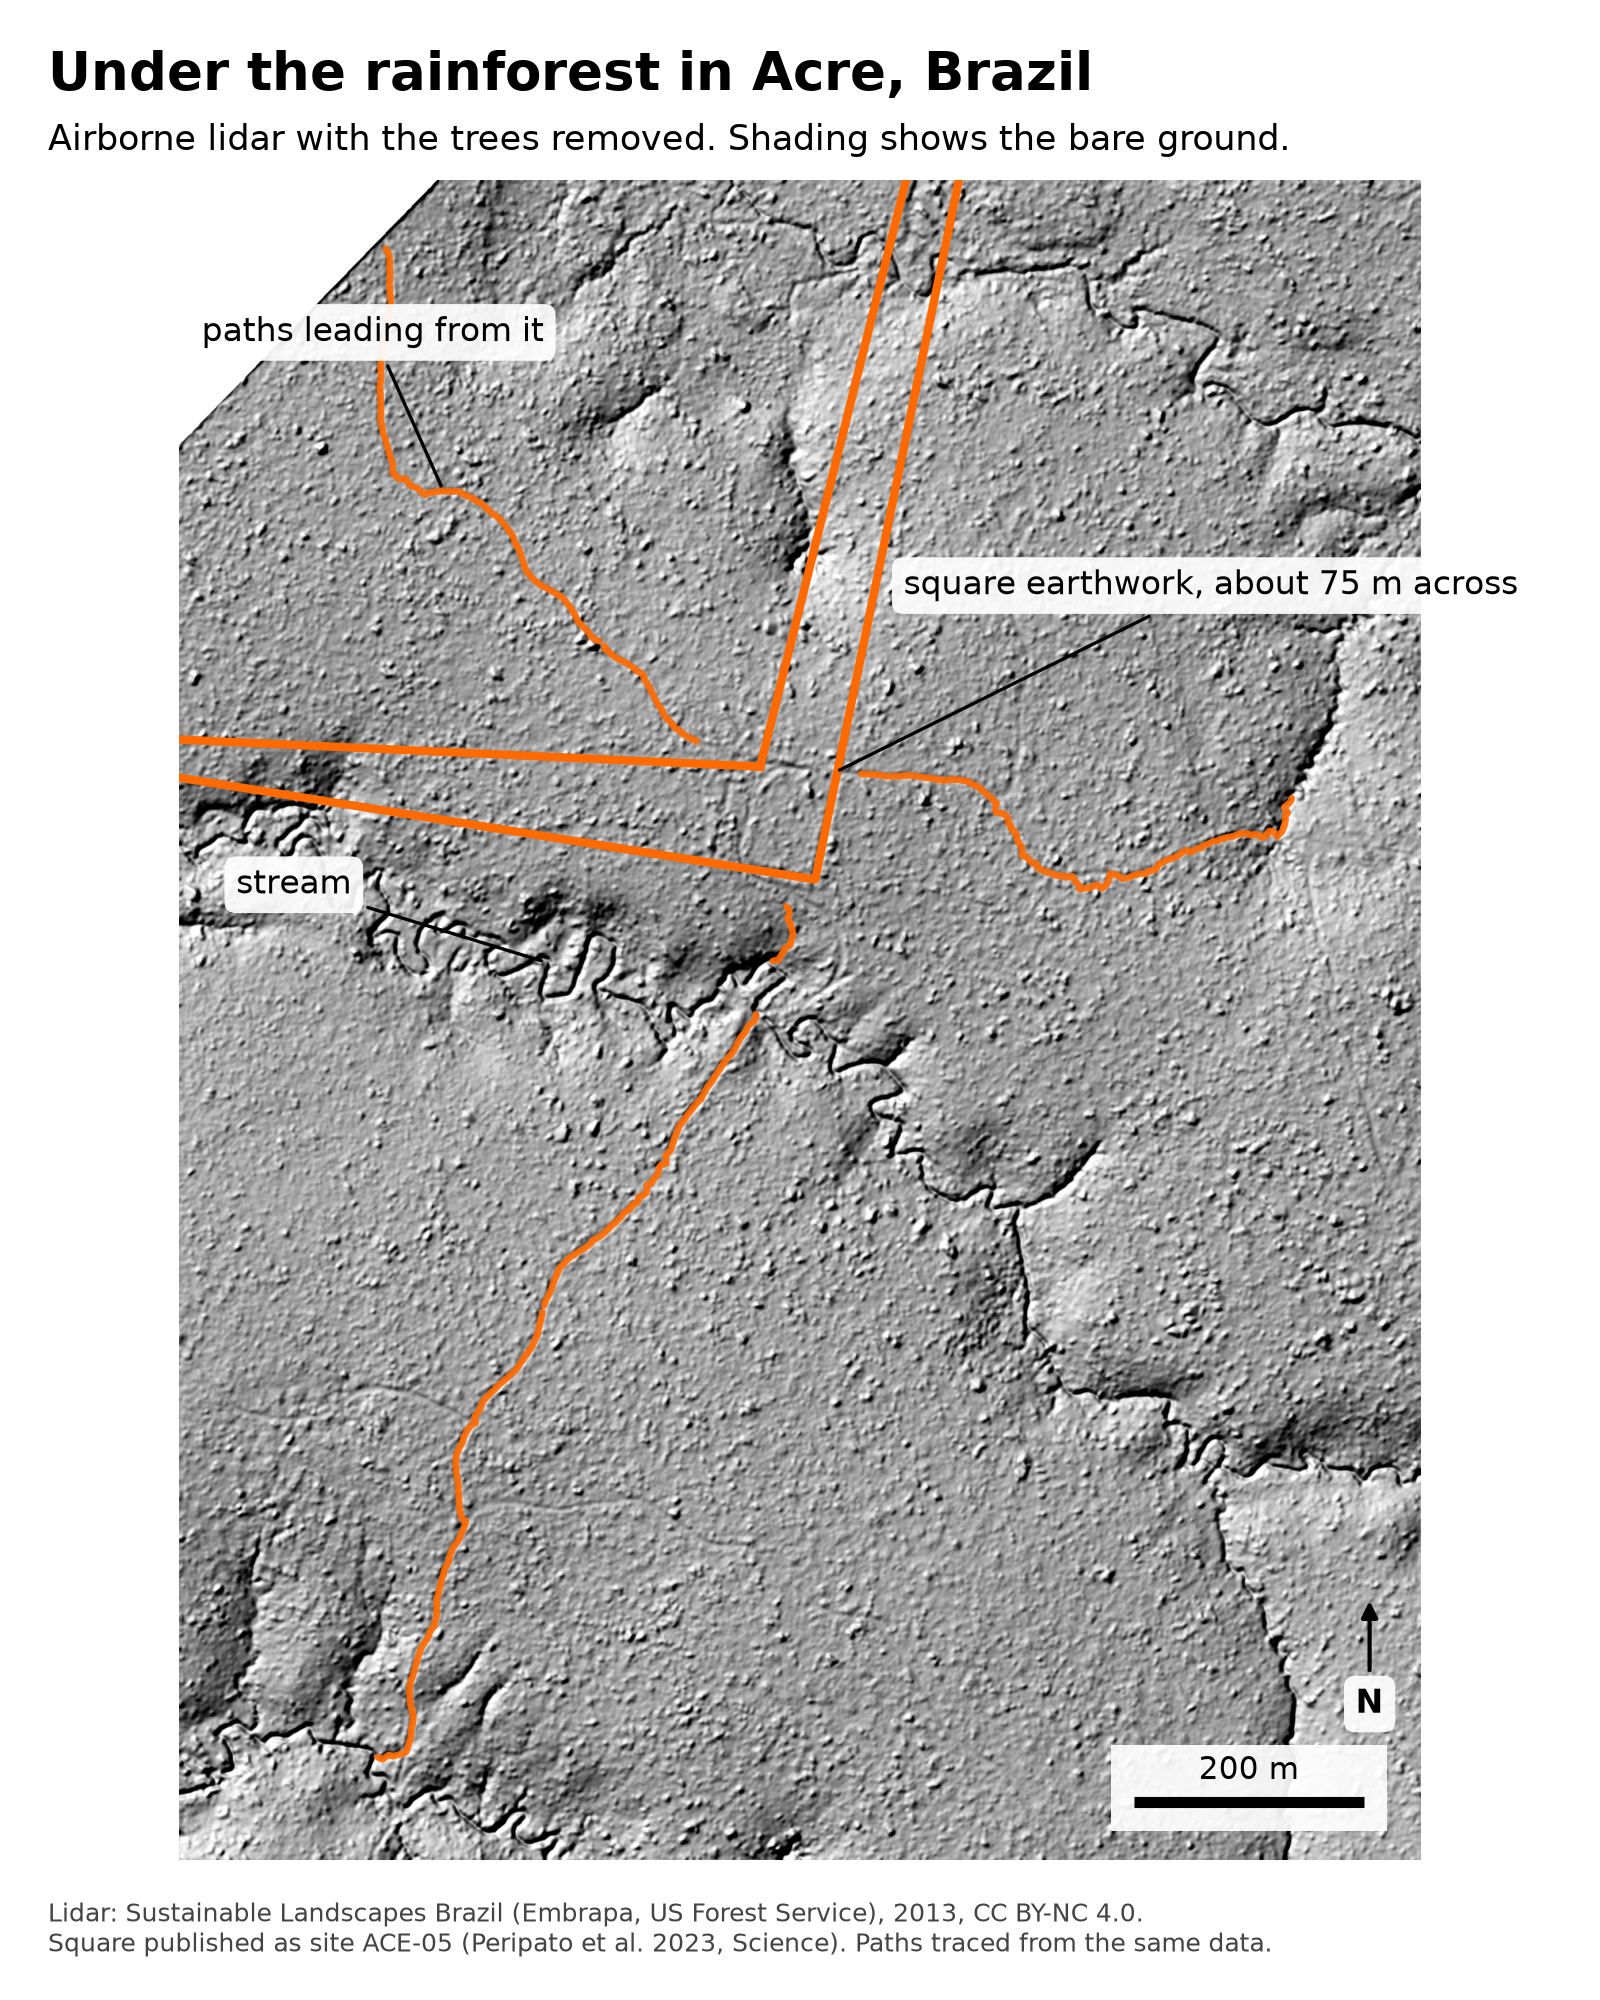
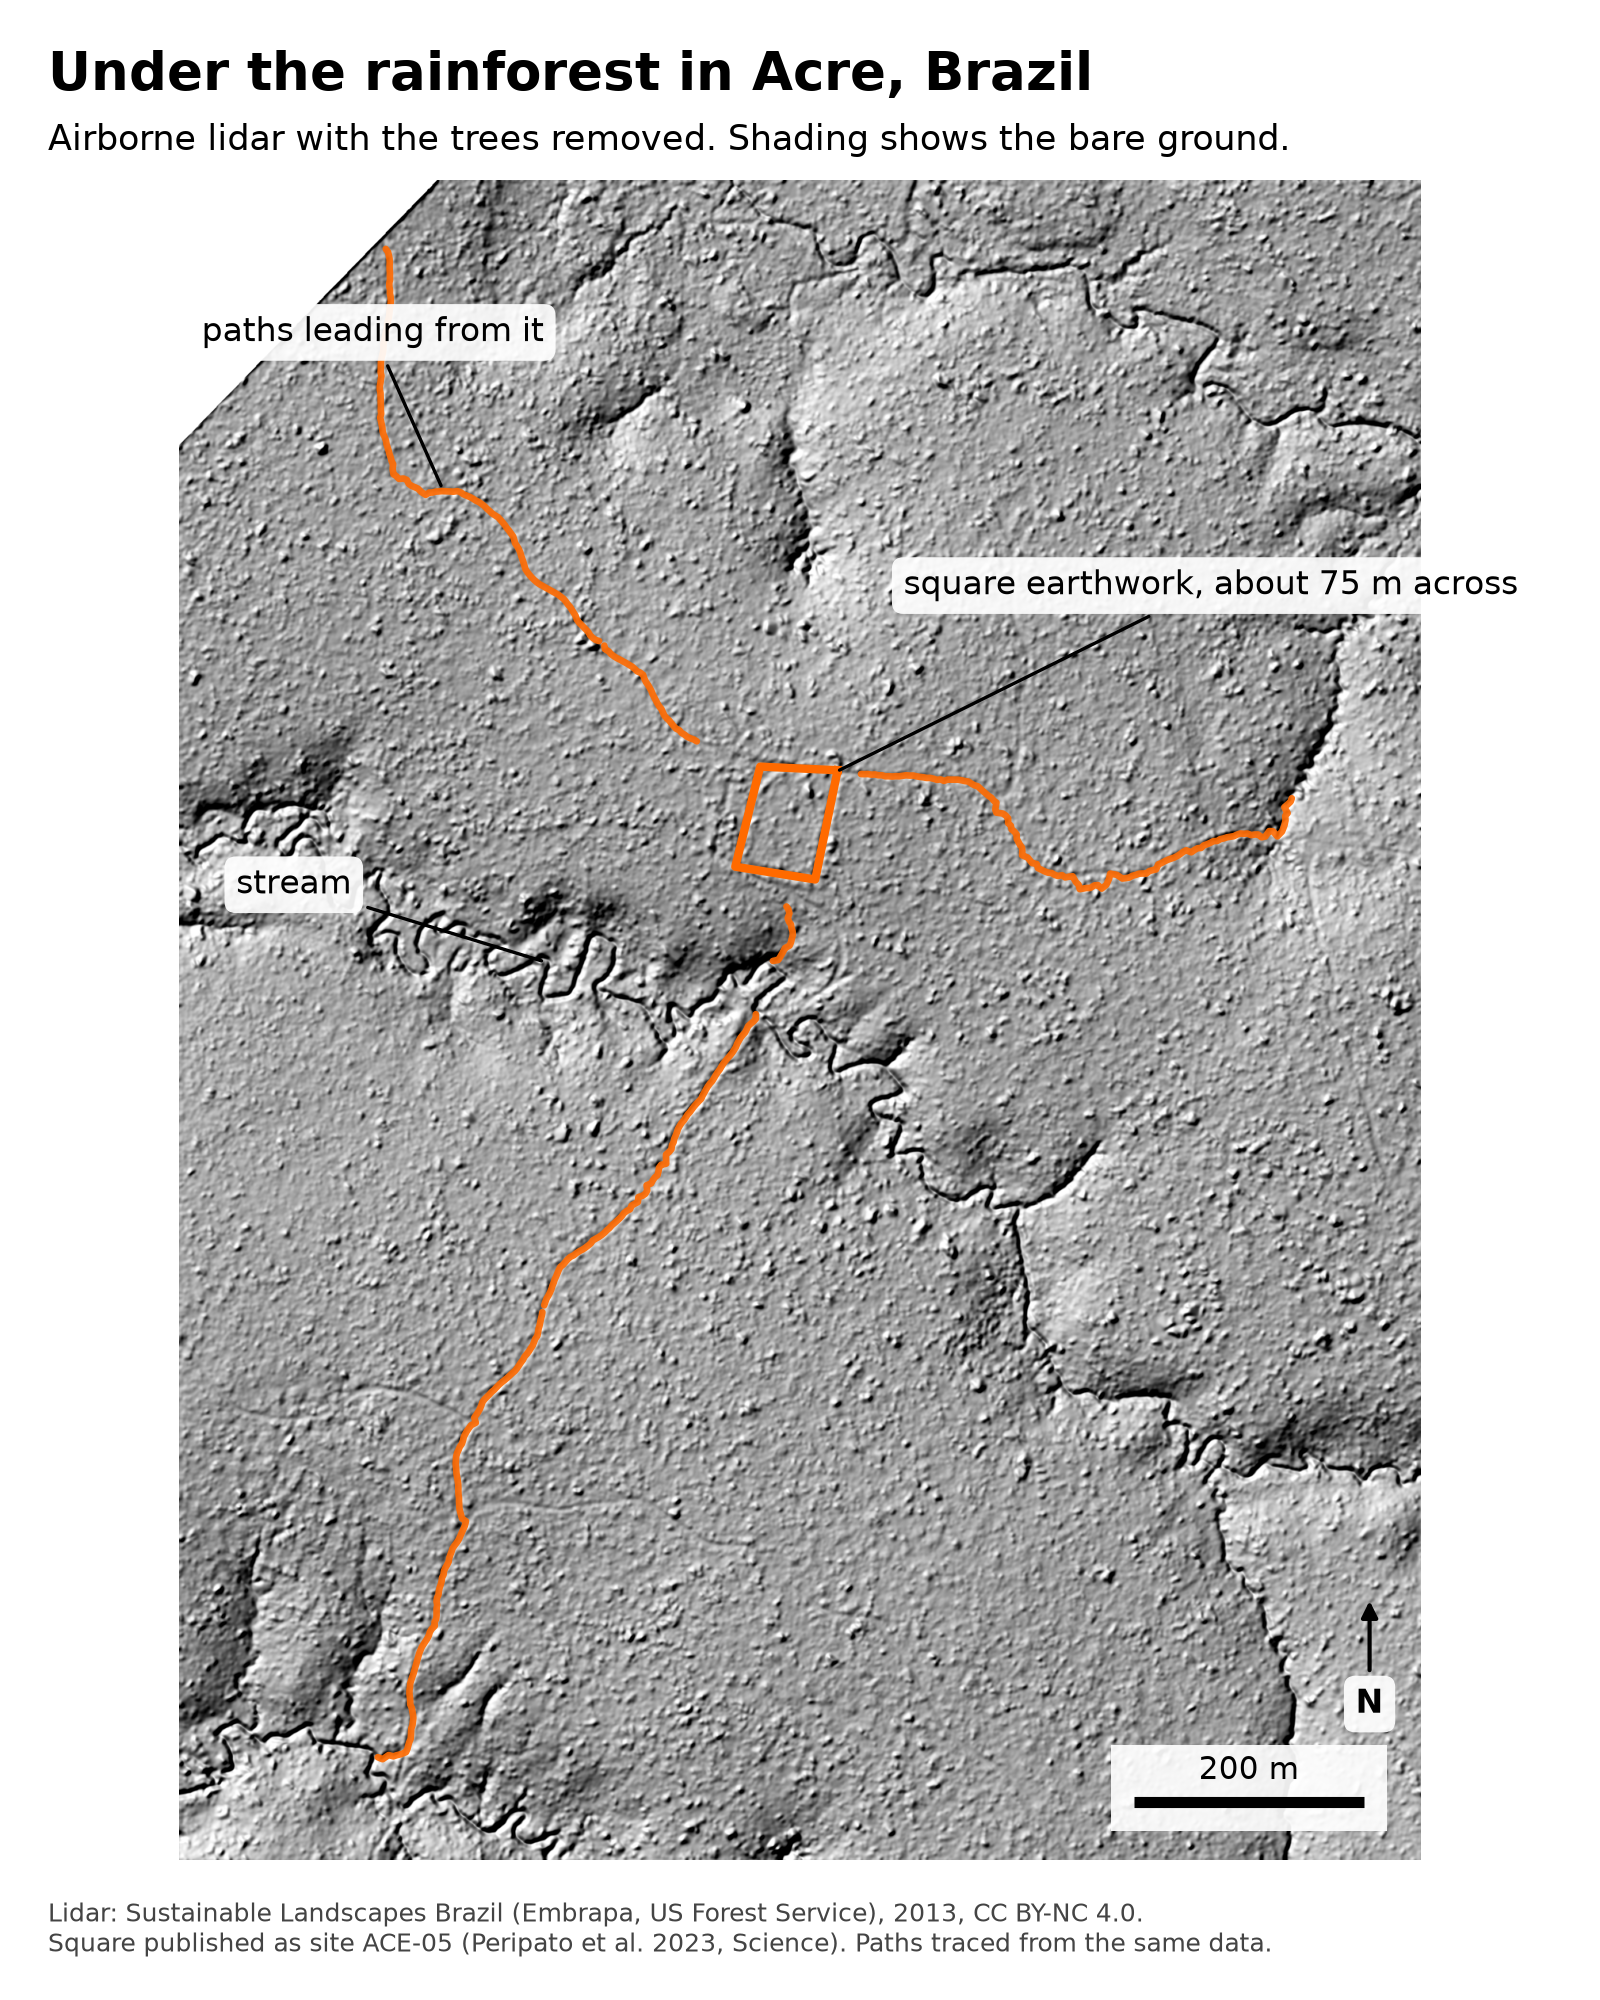
pics

Changed region(s): [[0.125, 0.31, 0.5312, 0.434], [0.5312, 0.093, 0.625, 0.217], [0.5, 0.217, 0.5625, 0.341]]

diff --git a/lidar/make_social_relief.py b/lidar/make_social_relief.py
@@ -1,0 +1,94 @@
+"""Shareable map of the measured bumps and dips, with attention marks that sit beside
+the features (a circle around the square, arrows next to the paths), never on them.
+
+Usage: python -I lidar/make_social_relief.py SURFACES.npz TRACES.json OUT.png CX CY
+"""
+import json
+import sys
+
+import matplotlib
+import numpy as np
+from scipy import ndimage as ndi
+
+matplotlib.use("Agg")
+import matplotlib.pyplot as plt
+from matplotlib.patches import Circle
+
+surf, traces_path, out = sys.argv[1:4]
+CX, CY = float(sys.argv[4]), float(sys.argv[5])
+X_RANGE, Y_RANGE = (-330, 330), (-420, 405)  # metres from the square's centre (4:5)
+LIM = 0.3  # colour scale, metres
+
+s = np.load(surf)
+dtm = s["dtm"].astype(float)
+X0, Y0 = s["origin"]
+CELL = float(s["cell"])
+filled = np.where(np.isnan(dtm), np.nanmedian(dtm), dtm)
+rel = ndi.gaussian_filter(filled - ndi.gaussian_filter(filled, 10 / CELL), 1.5 / CELL)
+
+c0, c1 = int((CX + X_RANGE[0] - X0) / CELL), int((CX + X_RANGE[1] - X0) / CELL)
+r0, r1 = int((Y0 - (CY + Y_RANGE[1])) / CELL), int((Y0 - (CY + Y_RANGE[0])) / CELL)
+img = rel[r0:r1, c0:c1]
+
+fig = plt.figure(figsize=(8, 10), dpi=200)
+ax = fig.add_axes([0.02, 0.1, 0.96, 0.8])
+im = ax.imshow(np.clip(img, -LIM, LIM), cmap="RdBu_r", vmin=-LIM, vmax=LIM,
+               extent=(*X_RANGE, *Y_RANGE), interpolation="bilinear")
+
+INK = "#111111"
+BOX = dict(boxstyle="round,pad=0.35", fc="white", ec="none", alpha=0.92)
+traces = json.load(open(traces_path))
+
+# circle around the square, well outside its ditch
+ax.add_patch(Circle((3, 2), 78, fill=False, ec=INK, lw=2.2))
+ax.annotate("square earthwork, about 75 m across", (55, 58), xytext=(70, 175), fontsize=12.5, bbox=BOX,
+            arrowprops=dict(arrowstyle="-", color=INK, lw=1.2))
+
+
+def arrow_beside(name, along_m, side=1, gap=9, length=45):
+    """An arrow whose tip stops `gap` metres to one side of the traced path."""
+    p = np.array(traces[name]["path"]) - [CX, CY]
+    d = np.r_[0, np.cumsum(np.linalg.norm(np.diff(p, axis=0), axis=1))]
+    i = int(np.argmin(np.abs(d - along_m)))
+    j = min(i + 3, len(p) - 1)
+    t = (p[j] - p[max(i - 3, 0)])
+    t /= np.linalg.norm(t)
+    n = np.array([-t[1], t[0]]) * side
+    tip = p[i] + gap * n
+    ax.annotate("", tip, xytext=tip + length * n,
+                arrowprops=dict(arrowstyle="-|>", color=INK, lw=2, mutation_scale=16))
+    return tip + (length + 14) * n
+
+
+lab = arrow_beside("nw_out", 130, side=1)
+ax.text(*lab, "path", fontsize=12.5, ha="center", va="center", bbox=BOX)
+arrow_beside("nw_back", 60, side=1)
+lab = arrow_beside("east", 160, side=-1)
+ax.text(*lab, "path", fontsize=12.5, ha="center", va="center", bbox=BOX)
+lab = arrow_beside("sw_back", 90, side=1, length=70)
+ax.text(*lab, "path, across\nthe stream", fontsize=12.5, ha="center", va="center", bbox=BOX)
+
+# scale bar and north arrow
+x_s, y_s = X_RANGE[1] - 135, Y_RANGE[0] + 28
+ax.add_patch(plt.Rectangle((x_s - 12, y_s - 14), 124, 46, fc="white", ec="none", alpha=0.92))
+ax.plot([x_s, x_s + 100], [y_s, y_s], color=INK, lw=4, solid_capstyle="butt")
+ax.text(x_s + 50, y_s + 8, "100 m", ha="center", va="bottom", fontsize=11)
+ax.annotate("N", (X_RANGE[1] - 28, Y_RANGE[0] + 140), xytext=(X_RANGE[1] - 28, Y_RANGE[0] + 92),
+            ha="center", va="top", fontsize=12, fontweight="bold", bbox=BOX,
+            arrowprops=dict(arrowstyle="-|>", color=INK, lw=1.5))
+ax.set_xlim(*X_RANGE)
+ax.set_ylim(*Y_RANGE)
+ax.axis("off")
+
+cax = fig.add_axes([0.25, 0.062, 0.5, 0.013])
+cb = fig.colorbar(im, cax=cax, orientation="horizontal", ticks=[-LIM, 0, LIM])
+cb.ax.set_xticklabels([f"{-LIM:.1f} m lower", "level", f"{LIM:.1f} m higher"], fontsize=10)
+cb.outline.set_visible(False)
+fig.text(0.5, 0.083, "Ground height compared with the ground around it (within ~10 m)", ha="center", fontsize=10.5)
+
+fig.text(0.03, 0.955, "Under the rainforest in Acre, Brazil", fontsize=19, fontweight="bold")
+fig.text(0.03, 0.925, "Airborne lidar with the trees removed: blue is lower ground, red is higher.", fontsize=12.5)
+fig.text(0.03, 0.025, "Lidar: Sustainable Landscapes Brazil (Embrapa, US Forest Service), 2013, CC BY-NC 4.0.\n"
+         "Square published as site ACE-05 (Peripato et al. 2023, Science).", fontsize=9, va="center", color="#444444")
+fig.savefig(out, dpi=200, facecolor="white")
+print("wrote", out)

diff --git a/lidar/make_social_map.py b/lidar/make_social_map.py
@@ -43,16 +43,16 @@ ax.imshow(shade, cmap=cmap, vmin=0.15, vmax=0.95, extent=(*X_RANGE, *Y_RANGE), i
 ORANGE = "#ff6a00"
 BOX = dict(boxstyle="round,pad=0.35", fc="white", ec="none", alpha=0.92)
 traces = json.load(open(traces_path))
-square = []
+square = {}
 for name, t in traces.items():
     if name.startswith("unstable") or not t["path"]:
         continue
     p = np.array(t["path"]) - [CX, CY]
     if name.startswith("square"):
-        square.append(p)
+        square[name] = p
         continue
     ax.plot(p[:, 0], p[:, 1], color=ORANGE, lw=2.4, alpha=0.9, solid_capstyle="round")
-# the four traced sides (north, east, south, west order in the file): fit a straight line to
+# the four traced sides, taken in order around the square: fit a straight line to
 # each, and use where neighbouring lines cross as the corners
 def fit(p):
     c = p.mean(axis=0)
@@ -66,7 +66,7 @@ def cross(a, b):
     return c1 + t[0] * d1
 
 
-sides = [fit(p) for p in square]
+sides = [fit(square[k]) for k in ("square_n", "square_e", "square_s", "square_w")]
 corners = [cross(sides[i], sides[(i + 1) % 4]) for i in range(4)]
 ring = np.vstack(corners + corners[:1])
 ax.plot(ring[:, 0], ring[:, 1], color=ORANGE, lw=3.0)
